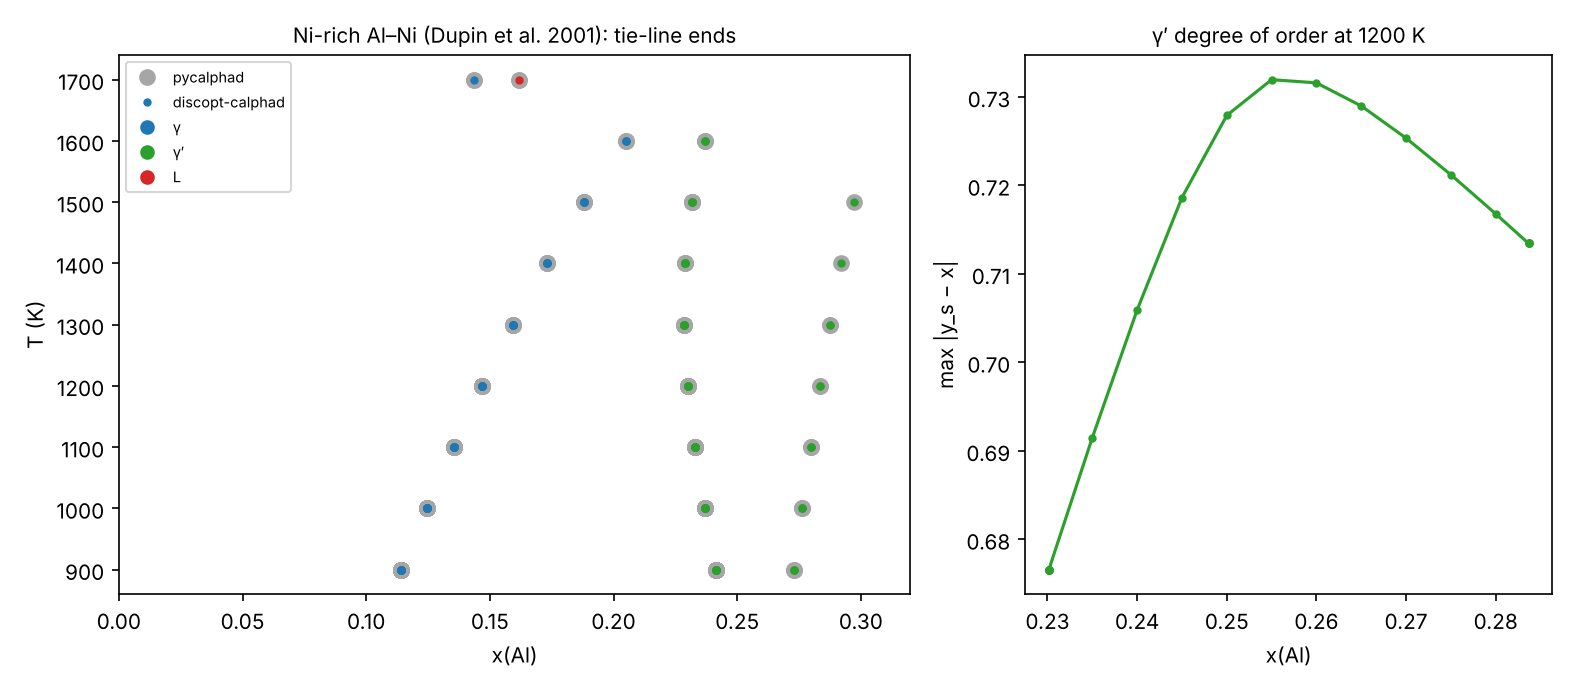
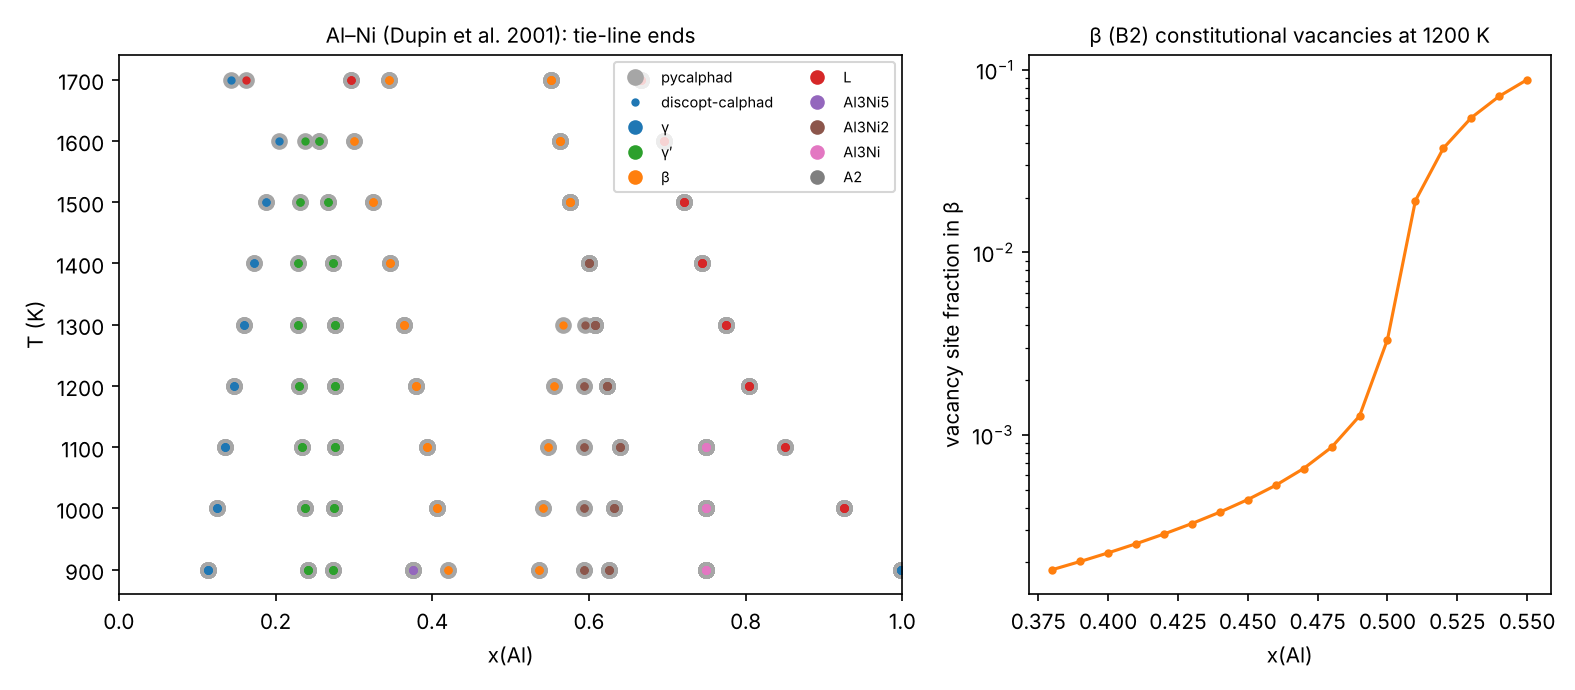
docs: #6 full Al-Ni order-disorder example and figures; certification with beta active is open
Claude-Session: https://claude.ai/code/session_017bmvbK5DwkxUkjbXKSKyyG

diff --git a/docs/examples.md b/docs/examples.md
@@ -97,24 +97,29 @@ The fitted diagram (red) is drawn over the NIMS assessment (gray) and the data.
     --8<-- "examples/cumg_espei_fit.py"
     ```
 
-## Ni-rich Al–Ni: γ and γ′ with the native order–disorder model
+## Al–Ni with its order–disorder phases: γ′ and β
 
-γ′ (Ni₃Al, L1₂) is a partitioned phase over γ (FCC_A1) in Dupin, Ansara and
-Sundman's assessment (Calphad 25 (2001) 279–298). Here it is modeled natively
-as G_dis(x) + G_ord(y) − G_ord(x) (issue #6). The ordered state is a second
-well in site-fraction space, and pricing finds it as a new composition set of
-FCC_L12.
+Dupin, Ansara and Sundman's assessment (Calphad 25 (2001) 279–298) describes
+γ′ (Ni₃Al, L1₂) and β (NiAl, B2) as partitioned phases, modeled natively as
+G_dis(x) + G_ord(y) − G_ord(x) (issue #6). Ordered states are second wells in
+site-fraction space, and pricing finds them as new composition sets. β also
+holds constitutional vacancies on both sublattices. It is modeled over formula
+units at least half occupied (`min_occupancy`), because the model has no
+global minimum below that.
 
-On the Ni-rich side (x(Al) ≤ 0.30, 900–1700 K, 261 points, none failed), the
-γ + γ′, γ′ + Al₃Ni₅ and L + γ boundaries agree with pycalphad on the same
-phases to five decimals. Dupin's β (B2) allows vacancies on its substitutional
-sublattices, which the native model does not support yet, so both maps leave
-it out. In the full assessment, β borders γ′ above x(Al) ≈ 0.27. Two points
-are also certified globally (`CERTIFIED_TO_TOLERANCE`): γ + γ′ at 1200 K and
-γ′ at 1000 K. Bounding the active FCC_L12 phase takes about 500 s each; every
-other phase takes seconds.
+The diagram covers 900–1700 K and 49 compositions (441 points, 4 failed). Every
+two-phase region is the same as pycalphad's on the same database, with
+boundaries equal to five decimals, including Al-rich β + Al₃Ni₂. At 1200 K, β's
+vacancy fraction rises from 2e-4 to 9e-2 across its range, x(Al) = 0.38 to 0.55.
 
-![Ni-rich Al-Ni](assets/examples/alni_order_disorder.png)
+Global certification:
+- γ + γ′ at 1200 K and γ′ at 1000 K are certified (`CERTIFIED_TO_TOLERANCE`).
+  Bounding the active FCC_L12 takes about 500 s.
+- With β active, certification does not close in the time limit
+  (`GLOBAL_SEARCH_INCOMPLETE`). The bound of the four-variable B2 stalls near
+  −3 after 600 s.
+
+![Al-Ni order-disorder](assets/examples/alni_order_disorder.png)
 
 ??? example "examples/alni_order_disorder.py"
     ```python
@@ -124,10 +129,10 @@ other phase takes seconds.
 ## Ni–Al with stand-ins for its order–disorder phases
 
 Dupin's Al–Ni assessment describes γ′ (L1₂) and β (B2) as partitioned phases.
-γ′ is modeled natively. β has vacancies on its substitutional sublattices,
-which the native model does not support yet, so `ordering.stand_in` rewrites it
-as a plain phase. The stand-in is exact (pycalphad agrees to 1e-10 J/mol),
-with magnetism and B2 vacancies dropped. The diagram matches pycalphad's full model to within 0.001
+Both are modeled natively now. This example replaces β with
+`ordering.stand_in`'s plain phase, which is exact (pycalphad agrees to 1e-10
+J/mol) except that it drops magnetism and B2 vacancies, to show what that
+costs. The diagram matches pycalphad's full model to within 0.001
 in x except on the Al-rich side of β (up to 0.046), where the dropped vacancies
 matter.
 

diff --git a/docs/architecture.md b/docs/architecture.md
@@ -663,6 +663,12 @@ building the prototype. The upstream requests are tracked in discopt#1249.
       - On a toy phase with G(VA:VA) = 0, global pricing matches a dense
         grid restricted to the domain, while a point with δ = 1e-8 lies more
         than 10 RT per atom below the tangent.
+    - **Open: certification with β active.** At 1200 K, β + Al₃Ni₂
+      (x = 0.58) and β + γ′ (x = 0.3) end `GLOBAL_SEARCH_INCOMPLETE`. The
+      bound of BCC_B2 (four variables, plus the occupancy and symmetry
+      constraints) stalls near −3 after 600 s. The bounds of the other
+      active phases, Al₃Ni₂ and FCC_L12, stall at −4.8e-3 and −4.4e-5. This
+      is the active-phase weakness of §9.17, with a larger problem.
 
 ## 10. Roadmap after MVP 1
 
